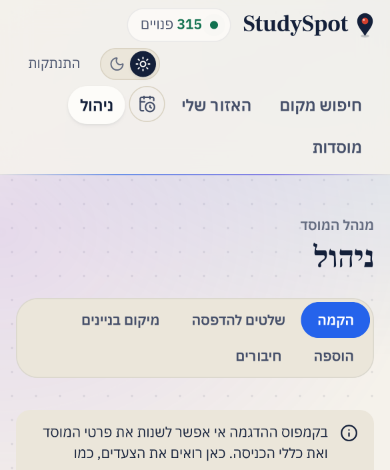
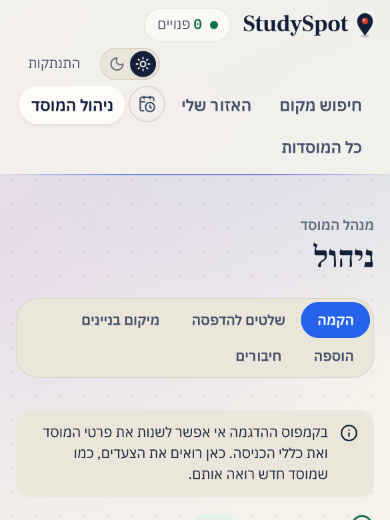
Clearer names and words: the header, the system page, the connections tab
From the user's walk as the system admin, signed in to the demo campus:
- Header: "ניהול" is "ניהול המוסד", "מוסדות" is "כל המוסדות".
- System page: titled "ניהול המערכת", one line on what it is for, one
  line on what to check before approving a sign-in rule, and a heading
  over the list of institutions. The long explanation stays in the
  interview report.
- On the demo campus, the system admin's setup tab says where a new
  institution is made, with a link to the system page.
- Connections: the widget says what to do with its code, and to whom
  to send it; "no sign-in and no key" is gone.
- Interview report: the widget, the API and webhooks in one table.

Claude-Session: https://claude.ai/code/session_01GBYsCxt5GrWc3JhqYiChAW

diff --git a/frontend/src/system/SystemPage.tsx b/frontend/src/system/SystemPage.tsx
@@ -20,14 +20,11 @@ export function SystemPage() {
   return (
     <div className={admin.page}>
       <p className={admin.eyebrow}>ניהול המערכת</p>
-      <h1 className={admin.title}>מוסדות</h1>
-      <p className={admin.lead}>
-        מוסד חדש נוצר מוסתר, בכתובת שבוחרים לו, למשל <bdi dir="ltr">/technion</bdi>. אחר כך יוצרים קישור הזמנה, ושולחים אותו
-        בעצמך, במייל או בוואטסאפ, למי שינהל את המוסד. הוא מתחבר דרך הקישור, מקים את הבניינים והמקומות, ומסמן את המוסד "פעיל".
-        רק אז המוסד מופיע ברשימת המוסדות.
-      </p>
+      <h1 className={admin.title}>ניהול המערכת</h1>
+      <p className={admin.lead}>כאן יוצרים מוסד, שולחים קישור הזמנה למי שינהל אותו, ומאשרים כללי כניסה.</p>
       <PendingRules />
       <NewInstitutionForm onCreated={institutions.reload} />
+      <h2 className={admin.formTitle}>כל המוסדות</h2>
       {!institutions.data && institutions.error ? (
         <ErrorState error={institutions.error} onRetry={institutions.reload} />
       ) : !institutions.data ? (
@@ -62,15 +59,7 @@ function PendingRules() {
       <h2 id={`${id}-title`} className={admin.formTitle}>
         כללי כניסה לאישור
       </h2>
-      <p className={admin.lead}>
-        כלל כניסה אומר מי שייך למוסד. למשל: "כל מי שנכנס עם מייל שנגמר ב-<bdi dir="ltr">@e.braude.ac.il</bdi> הוא סטודנט
-        בבראודה". מנהל המוסד מוסיף את הכלל, ואתה מאשר אותו.
-      </p>
-      <p className={admin.lead}>
-        למה צריך את האישור שלך: בלי בדיקה, מנהל של מוסד אחד יכול לכתוב סיומת של מכללה אחרת, ולקחת אליו את הסטודנטים שלה.
-        לכן לפני אישור, בודקים שהסיומת באמת של המוסד, למשל באתר הרשמי שלו. דרך נוספת: המוסד מוכיח את הסיומת ברשומת DNS.
-        אז הכלל מאושר לבד ויוצא מהרשימה כאן, בלי אישור שלך.
-      </p>
+      <p className={admin.lead}>מנהל מוסד הוסיף סיומת מייל או ארגון מיקרוסופט. לפני אישור, בודקים שהם באמת של המוסד.</p>
       {!rules.data && rules.error ? (
         <ErrorState error={rules.error} onRetry={rules.reload} />
       ) : !rules.data ? (

diff --git a/frontend/src/admin/Setup.tsx b/frontend/src/admin/Setup.tsx
@@ -10,6 +10,7 @@ import { DomainProof } from './DomainProof'
 import type { LoginRule, Setup as SetupData } from '../api/types'
 import { useAction, type Action } from '../hooks/useAction'
 import { useApi, type ApiState } from '../hooks/useApi'
+import { useAuth } from '../auth/AuthContext'
 import { useInstitution } from '../institution'
 import { Link } from 'react-router'
 import { ActionError, Button, ErrorState, Notice, PageLoading } from '../ui'
@@ -25,8 +26,10 @@ export function useSetup(): ApiState<SetupData> {
 }
 
 export function Setup({ setup, onGo }: { setup: ApiState<SetupData>; onGo: Go }) {
+  const { user } = useAuth()
   if (!setup.data && setup.error) return <ErrorState error={setup.error} onRetry={setup.reload} />
   if (!setup.data) return <PageLoading />
+  const isSystemAdmin = user?.role === 'system_admin'
   const data = setup.data
   const steps = [
     { title: 'פרטי המוסד', done: data.name.trim() !== '' },
@@ -37,7 +40,14 @@ export function Setup({ setup, onGo }: { setup: ApiState<SetupData>; onGo: Go })
   return (
     <div className={styles.setup}>
       {data.locked && (
-        <Notice>בקמפוס ההדגמה אי אפשר לשנות את פרטי המוסד ואת כללי הכניסה. כאן רואים את הצעדים, כמו שמוסד חדש רואה אותם.</Notice>
+        <Notice>
+          בקמפוס ההדגמה אי אפשר לשנות את פרטי המוסד ואת כללי הכניסה. כאן רואים את הצעדים, כמו שמוסד חדש רואה אותם.
+          {isSystemAdmin && (
+            <>
+              {' '}מוסד חדש יוצרים ב<Link to="/system">ניהול המערכת</Link>.
+            </>
+          )}
+        </Notice>
       )}
       <ol className={styles.steps} aria-label="צעדי ההקמה">
         {steps.map((step, index) => (

diff --git a/frontend/src/router.test.tsx b/frontend/src/router.test.tsx
@@ -173,7 +173,7 @@ describe('an address per institution', () => {
     renderAt('/demo/admin')
     const top = await header()
     expect(await top.findByRole('link', { name: 'ניהול המערכת' })).toHaveAttribute('href', '/system')
-    expect(top.getByRole('link', { name: 'ניהול' })).toHaveAttribute('href', '/demo/admin')
+    expect(top.getByRole('link', { name: 'ניהול המוסד' })).toHaveAttribute('href', '/demo/admin')
     expect(screen.queryByText('אין גישה')).not.toBeInTheDocument()
   })
 
@@ -186,7 +186,7 @@ describe('an address per institution', () => {
   it('anyone sees the list of active institutions, each linking to its address', async () => {
     renderAt('/institutions')
     expect(await screen.findByRole('link', { name: 'קמפוס הדגמה' })).toHaveAttribute('href', '/demo')
-    expect((await header()).getByRole('link', { name: 'מוסדות' })).toHaveAttribute('href', '/institutions')
+    expect((await header()).getByRole('link', { name: 'כל המוסדות' })).toHaveAttribute('href', '/institutions')
   })
 
   it('accepting an invite to another institution opens its admin page (the page is rebuilt on the way)', async () => {

diff --git a/frontend/src/admin/AdminPage.test.tsx b/frontend/src/admin/AdminPage.test.tsx
@@ -300,6 +300,16 @@ describe('AdminPage', () => {
     expect(await screen.findByText(/בקמפוס ההדגמה אי אפשר לשנות/)).toBeInTheDocument()
     expect(screen.getByRole('button', { name: 'להפעיל את המוסד' })).toBeDisabled()
     expect(screen.getByRole('button', { name: 'הוספת סיומת' })).toBeDisabled()
+    expect(screen.queryByRole('link', { name: 'ניהול המערכת' })).not.toBeInTheDocument() // an institution admin cannot go there
+  })
+
+  it('on the demo campus, the system admin is shown where a new institution is made', async () => {
+    setup = { ...SETUP, locked: true }
+    role = 'system_admin'
+    renderAdmin()
+    const notice = (await screen.findByText(/בקמפוס ההדגמה אי אפשר לשנות/)).closest('div') as HTMLElement
+    expect(notice).toHaveTextContent('מוסד חדש יוצרים בניהול המערכת.')
+    expect(screen.getAllByRole('link', { name: 'ניהול המערכת' }).some((a) => a.getAttribute('href') === '/system')).toBe(true)
   })
 
   it('removing a rule takes it off the screen', async () => {

diff --git a/frontend/src/system/SystemPage.test.tsx b/frontend/src/system/SystemPage.test.tsx
@@ -193,11 +193,12 @@ describe('SystemPage', () => {
     expect(await screen.findByText(/^אין מה לאשר כרגע/)).toBeInTheDocument()
   })
 
-  it('explains in plain words what a sign-in rule is, and why it waits for the system admin', async () => {
+  it('says in one line what to check before approving a sign-in rule', async () => {
     pending = []
     renderPage()
-    expect(await screen.findByText(/כלל כניסה אומר מי שייך למוסד/)).toHaveTextContent('@e.braude.ac.il')
-    expect(screen.getByText(/למה צריך את האישור שלך/)).toHaveTextContent('ולקחת אליו את הסטודנטים שלה')
+    expect(await screen.findByText(/לפני אישור, בודקים שהם באמת של המוסד/)).toBeInTheDocument()
+    expect(screen.getByRole('heading', { level: 1, name: 'ניהול המערכת' })).toBeInTheDocument()
+    expect(screen.getByRole('heading', { name: 'כל המוסדות' })).toBeInTheDocument()
   })
 
   it('deletes a hidden institution only after its address is typed', async () => {

diff --git a/frontend/src/admin/Connections.tsx b/frontend/src/admin/Connections.tsx
@@ -27,8 +27,8 @@ export function Connections() {
   return (
     <div className={styles.connections}>
       <p className={styles.lead}>
-        איך להראות את המקומות של המוסד גם מחוץ ל-StudySpot. הווידג'ט מתאים לכל מנהל: מעתיקים קוד ומדביקים באתר של המוסד.
-        השאר מיועד לאנשי המחשוב של המוסד, שמחברים אליו מערכות משלהם.
+        איך להראות את המקומות של המוסד גם מחוץ ל-StudySpot. הווידג'ט, למטה, מתאים לכל מנהל. מה שמתחתיו מיועד לאנשי
+        המחשוב של המוסד.
       </p>
       <EmbedCode />
       {/* Closed by default: most admins need only the widget. */}

diff --git a/frontend/src/admin/EmbedCode.tsx b/frontend/src/admin/EmbedCode.tsx
@@ -33,7 +33,8 @@ export function EmbedCode() {
         וידג'ט לאתר של המוסד
       </h2>
       <p className={styles.screenNote}>
-        תפוסה חיה, שמתעדכנת כל דקה, בתוך האתר של המוסד. רק קריאה, בלי כניסה ובלי מפתח. מדביקים את הקוד בדף.
+        חלון קטן עם התפוסה של המקומות, לאתר של המוסד. מעתיקים את הקוד שלמטה, ושולחים אותו למי שמנהל את האתר של המוסד.
+        הוא מדביק אותו בדף, והחלון מופיע שם ומתעדכן לבד כל דקה.
       </p>
       <label className={styles.label} htmlFor="embed-building">
         בניין

diff --git a/frontend/src/components/Layout.tsx b/frontend/src/components/Layout.tsx
@@ -88,13 +88,13 @@ export function Layout() {
               className={styles.navLink}
               viewTransition
             >
-              ניהול
+              ניהול המוסד
             </NavLink>
           )}
           {user?.role === 'system_admin' && (
             <NavLink to="/system" className={styles.navLink} viewTransition>ניהול המערכת</NavLink>
           )}
-          <NavLink to="/institutions" className={styles.navLink} viewTransition>מוסדות</NavLink>
+          <NavLink to="/institutions" className={styles.navLink} viewTransition>כל המוסדות</NavLink>
         </nav>
         <Pulse home={home} />
         <div className={styles.account}>

diff --git a/docs/INTERVIEW_REPORT.md b/docs/INTERVIEW_REPORT.md
@@ -1849,6 +1849,18 @@
 ## "אני לומד כאן", ו-`API` למוסדות: גל 14
 
 ### האתר, הווידג'ט וה-`API`
+**בדקה אחת: ווידג'ט, `API` ו-`webhooks`.** שלושתם מוציאים את המידע על המקומות אל מחוץ לאתר. ההבדל הוא למי, ומי מתחיל.
+
+| הכלי | בשפה פשוטה | למי | מי מתחיל את השיחה |
+|---|---|---|---|
+| ווידג'ט | חלון מוכן שמדביקים באתר אחר, כמו סרטון של `YouTube` | כל מנהל, בלי ידע טכני | הדפדפן של המבקר, כל דקה |
+| `API` עם מפתח | מספר טלפון: המחשב של המוסד מתקשר ושואל "מה התפוסה?" | איש מחשוב | המוסד |
+| `webhooks` | הפוך: StudySpot מתקשר למוסד ברגע שמשהו קורה | איש מחשוב | StudySpot |
+
+- **למה לווידג'ט אין מפתח:** הוא מראה רק מה שכל אחד רואה באתר ממילא, ולכן אין מה להסתיר.
+- **שאלה צפויה: "למה צריך גם `API` וגם `webhooks`?"**
+  - **תשובה:** `API` זה לשאול כל כמה זמן, ו-`webhook` זה לקבל הודעה מיד. מסך בלובי שרוצה להתעדכן ברגע ההזמנה צריך `webhook`. דוח של סוף חודש מסתפק ב-`API`.
+
 **שלוש הדרכים:**
 
 | הדרך | מי משתמש | מה המוסד עושה | מפתח? |
